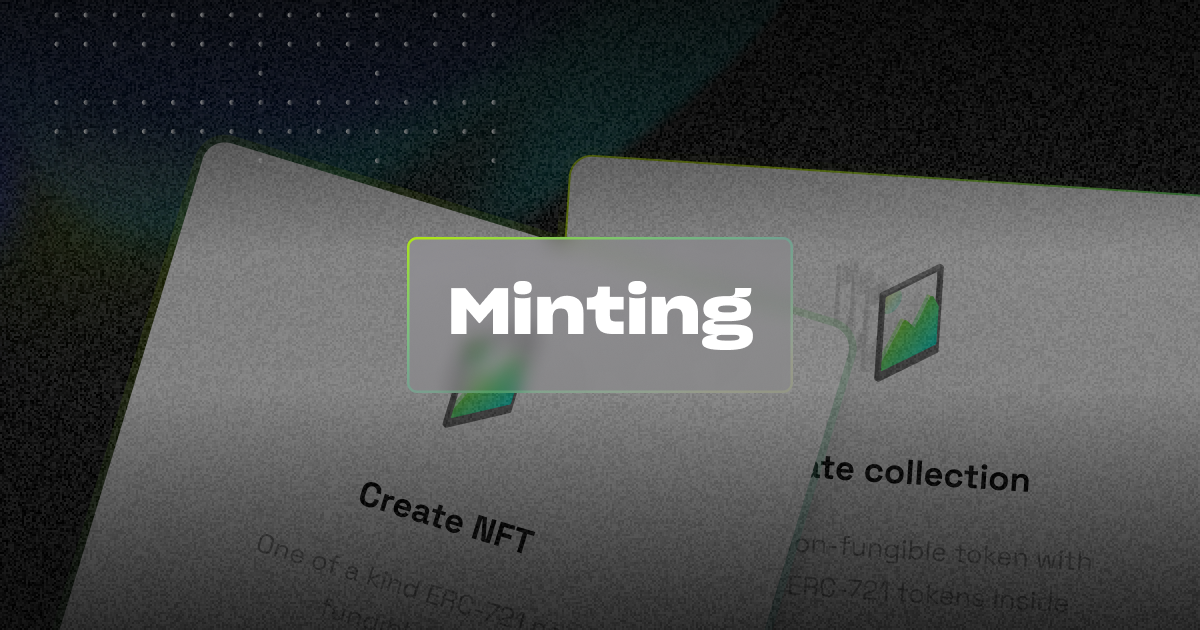
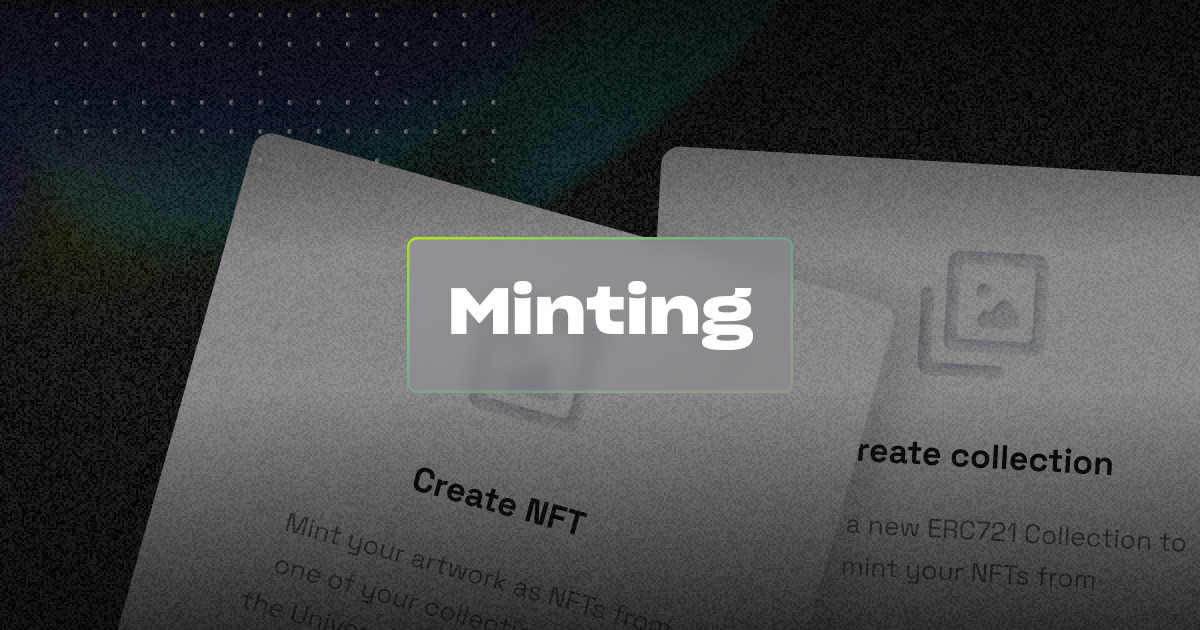
Fixed typos and replacing images related to the SEO + Fixed a little date pop up layout bug

diff --git a/src/containers/homepage/Homepage.jsx b/src/containers/homepage/Homepage.jsx
@@ -19,7 +19,7 @@ const Homepage = () => {
       <OpenGraph
         title={'Universe – Community-Driven NFT Protocol'}
         titlePostfix={null}
-        description={'Community-driven NFT Universe with the tools to empower artists and endless posibilities for creators'}
+        description={'Community-driven NFT Universe with the tools to empower artists and endless possibilities for creators.'}
         image={OpenGraphImage}
       >
         <title>Universe XYZ - The NFT Universe Built on Ethereum</title>

diff --git a/src/components/products/minting/Minting.jsx b/src/components/products/minting/Minting.jsx
@@ -41,7 +41,7 @@ const MintingPage = () => {
     <div className="minting-page">
       <OpenGraph
         title={'Mint NFT or Create an NFT Collection'}
-        description={'Universe Minting is an easy to use platform that allows users to create their NFTs to the Ethereum Blockchain.'}
+        description={'Universe Minting is an easy to use platform that allows users to create their NFTs on the Ethereum Blockchain.'}
         image={OpenGraphImage}
       />
       <div className="select--title">

diff --git a/src/containers/team/Team.jsx b/src/containers/team/Team.jsx
@@ -17,7 +17,7 @@ const Team = () => {
     <div className="team__page">
       <OpenGraph
         title={'Meet the Universe Crew'}
-        description={'Universe team is full of creators, artists and DeFi minds from all over the world with a shared goal in mind, empower artists.'}
+        description={'Universe team is full of creators, artists and DeFi minds from all over the world with a shared goal in mind, to empower artists.'}
         image={OpenGraphImage}
       />
       <Welcome />

diff --git a/src/app/components/date-time-picker/DateTimePicker.tsx b/src/app/components/date-time-picker/DateTimePicker.tsx
@@ -19,6 +19,7 @@ import {
 import { useFormik } from 'formik';
 import { useCallback, useEffect, useState } from 'react';
 import DatePicker from 'react-datepicker';
+import 'react-datepicker/dist/react-datepicker.css';
 import { default as dayjs } from 'dayjs';
 import { default as UTC } from 'dayjs/plugin/utc';
 import { default as Timezone } from 'dayjs/plugin/timezone';
